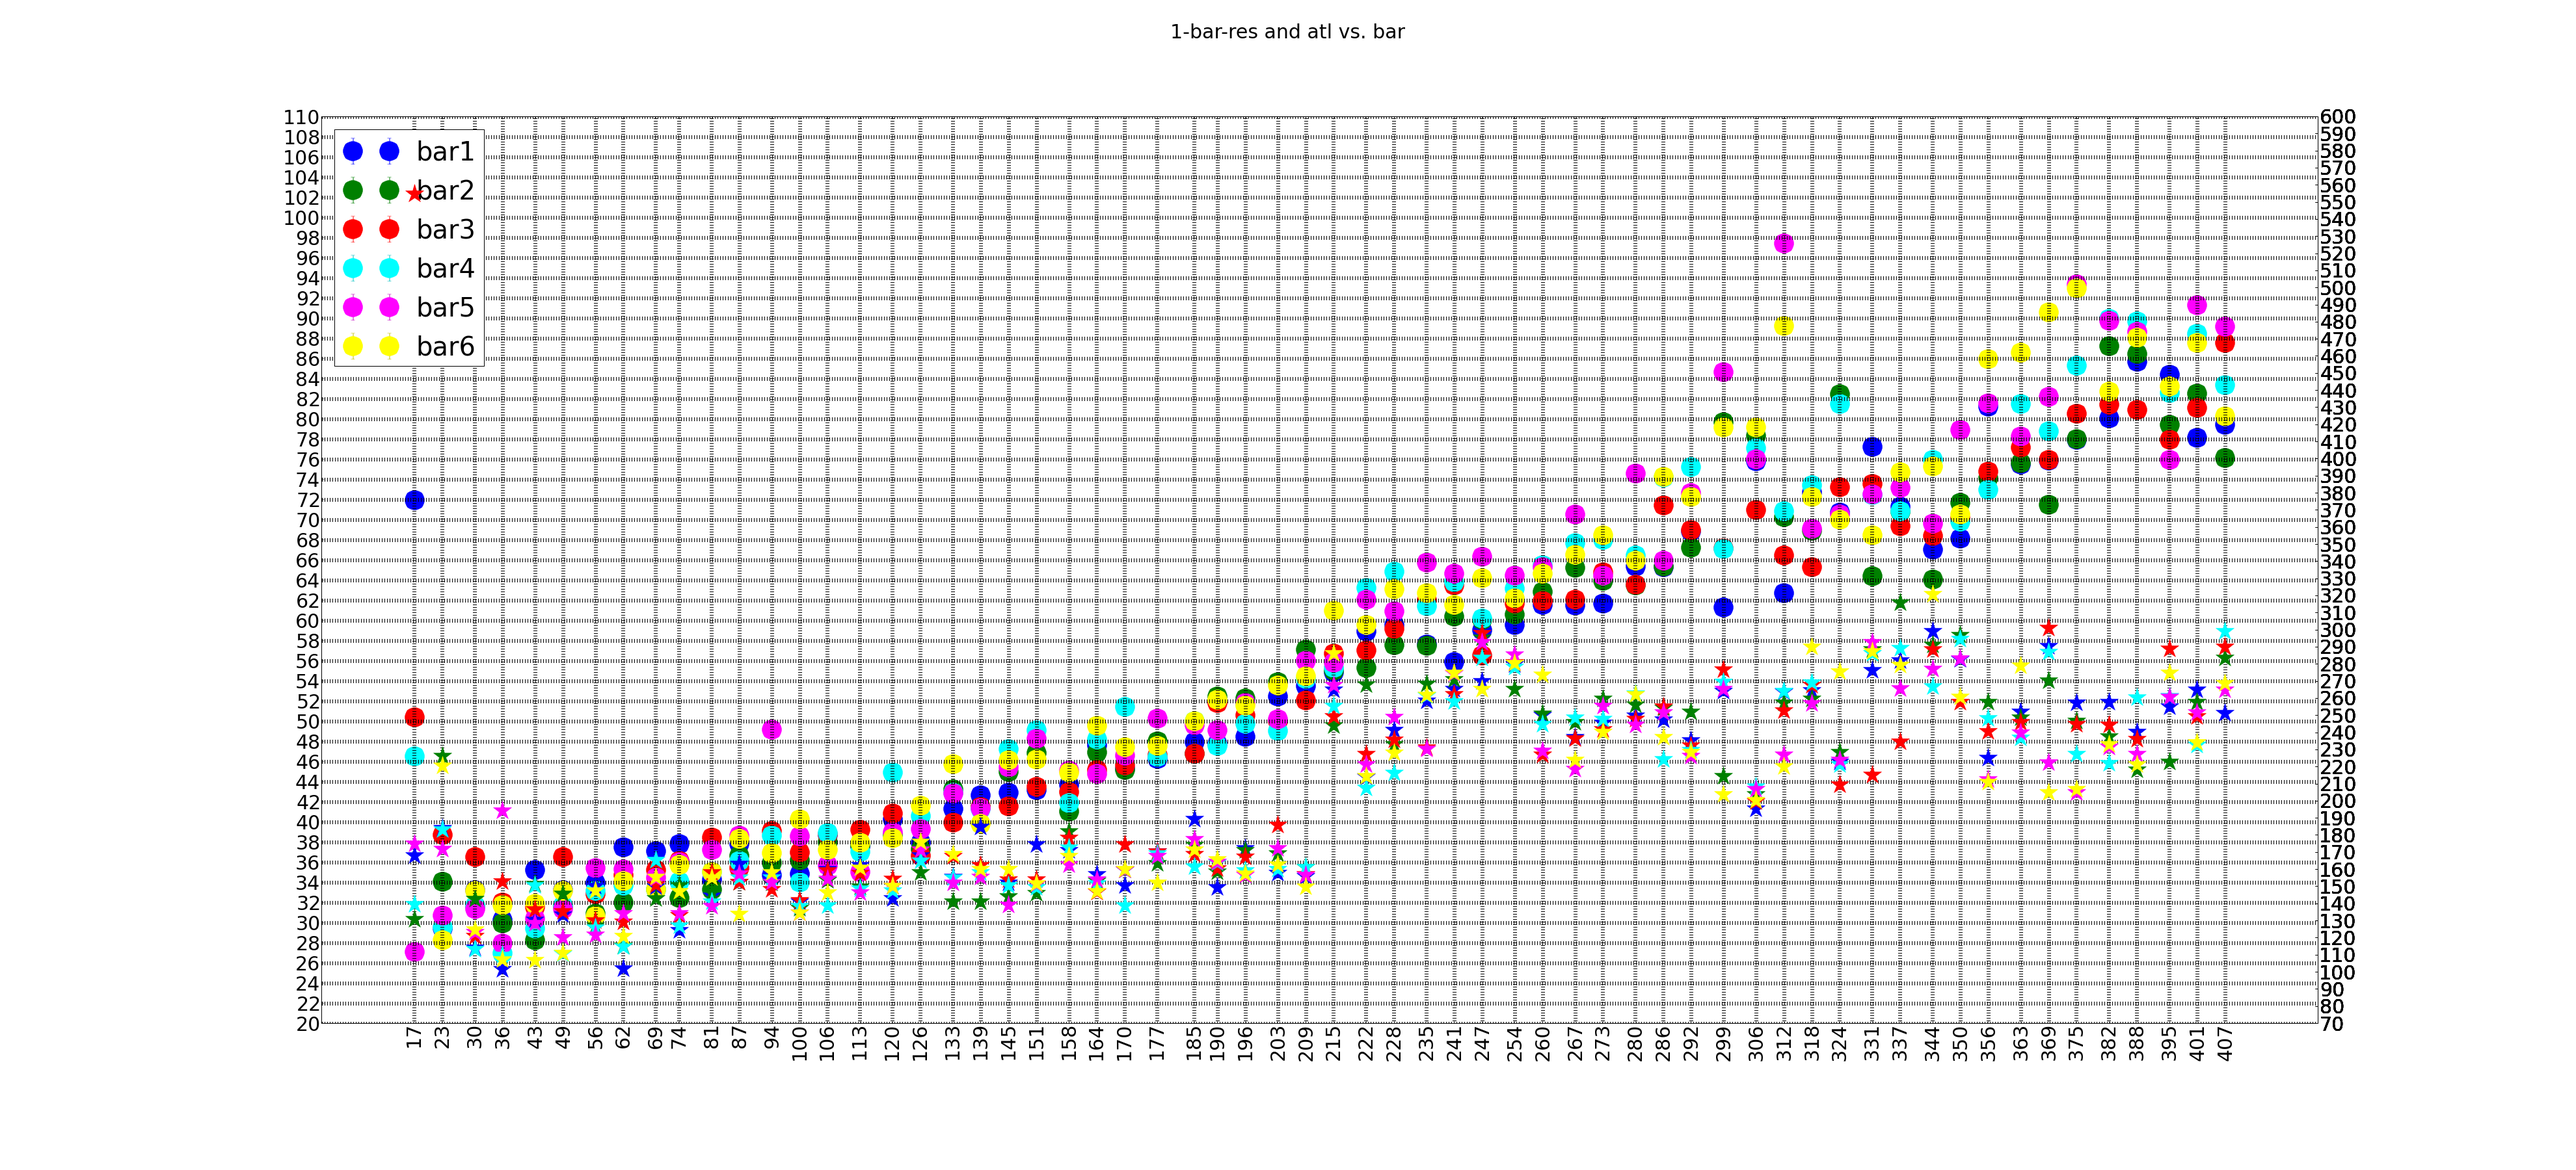
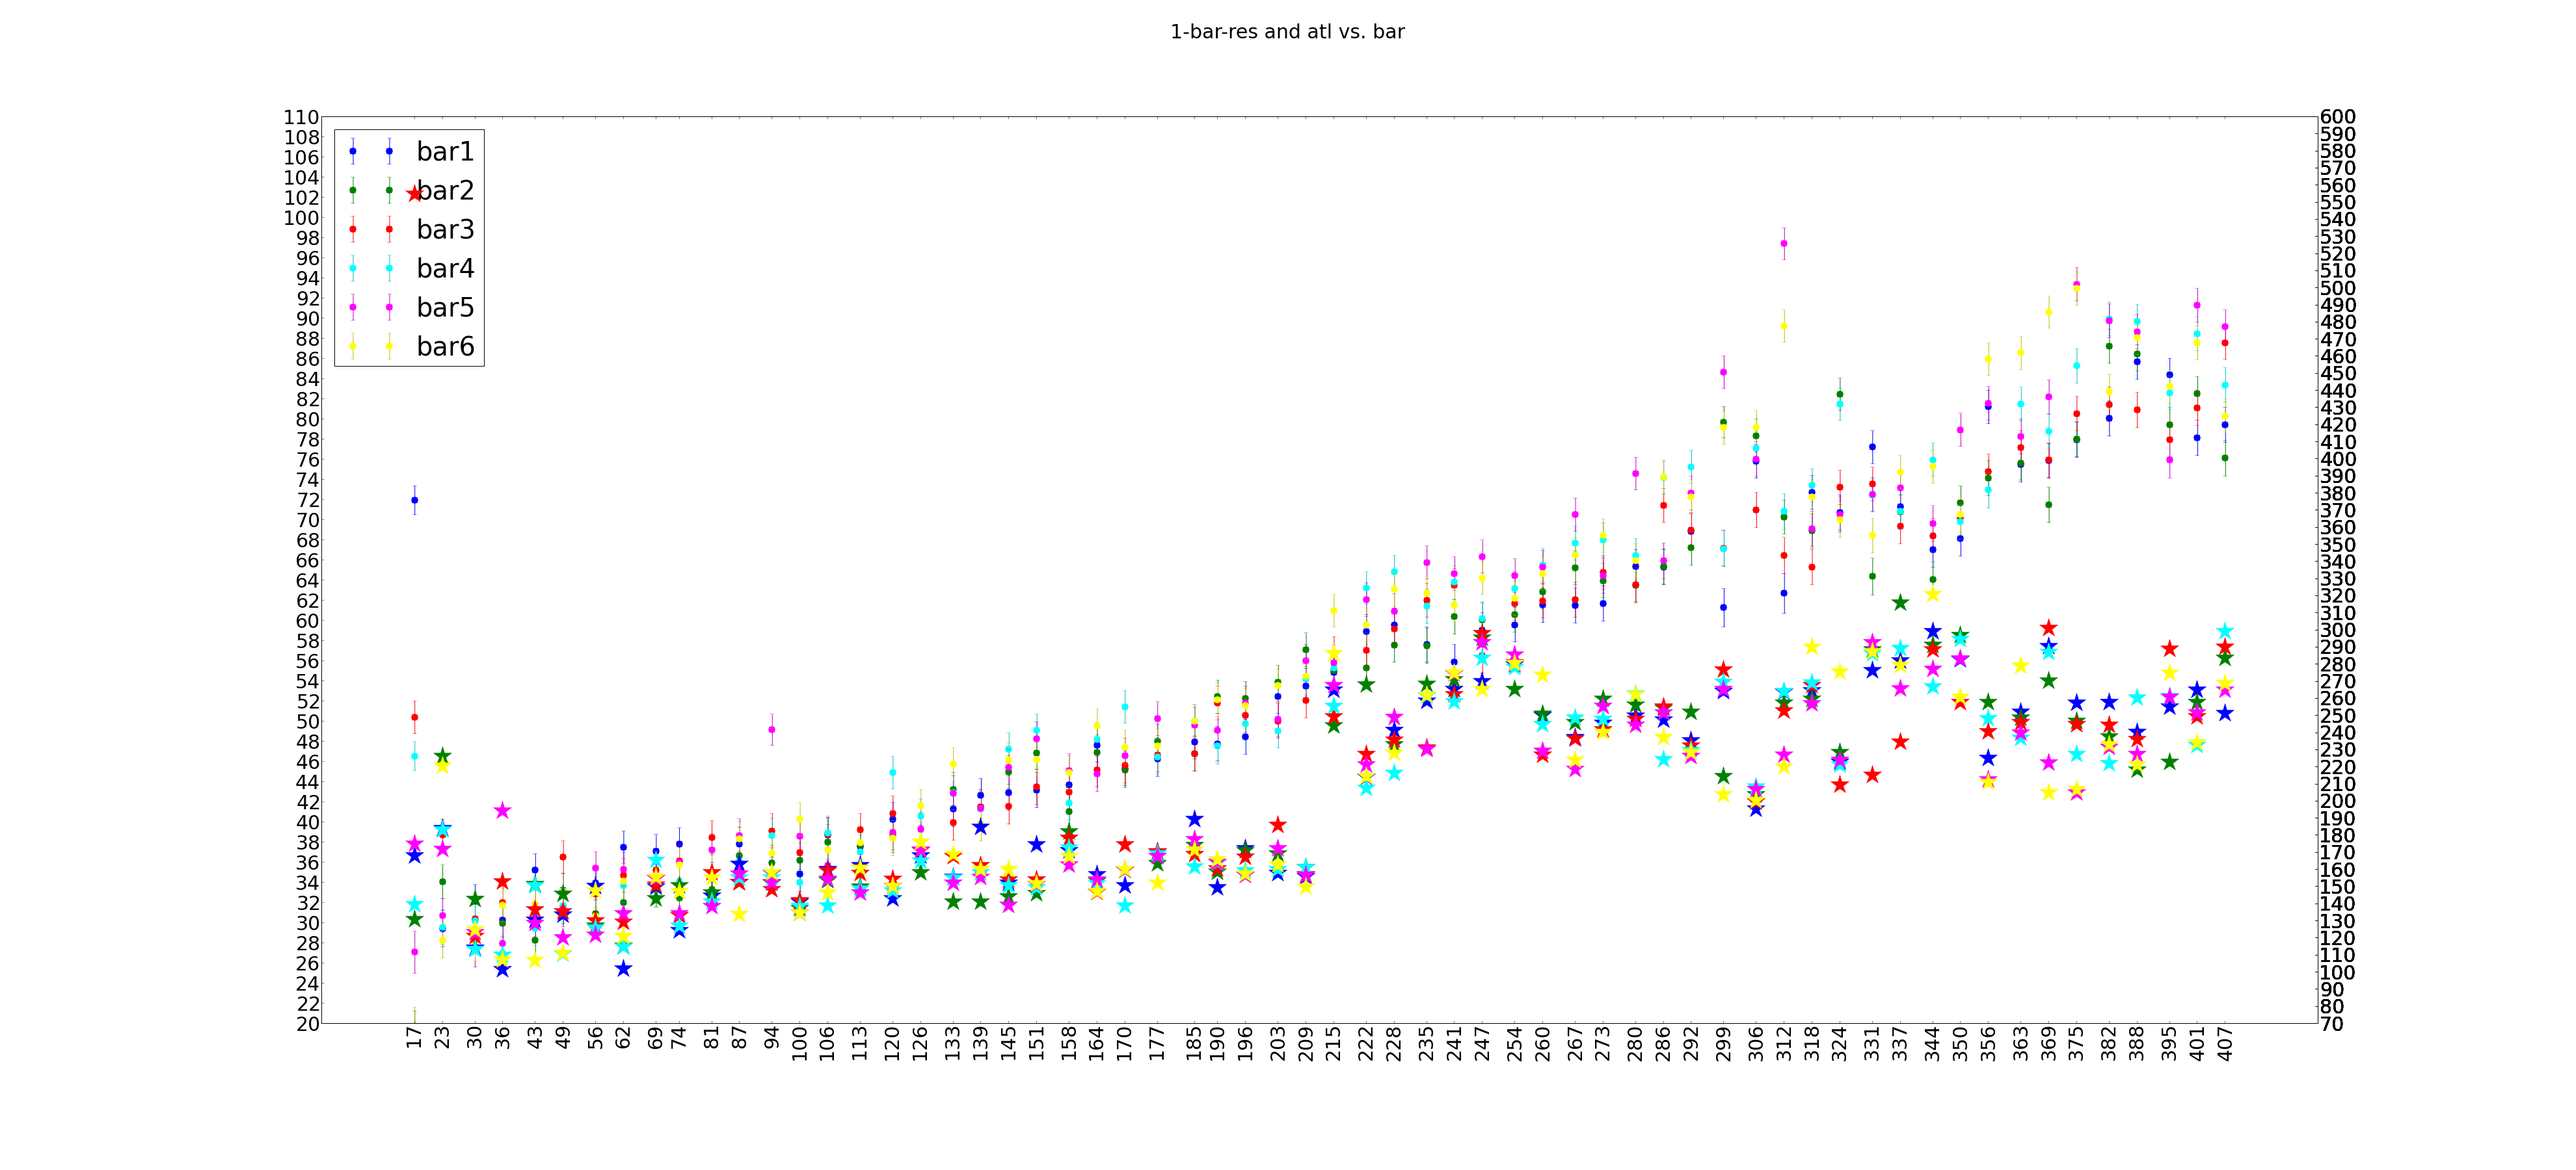
updates

diff --git a/README.md b/README.md
@@ -27,3 +27,4 @@ Branch information
 	+ PMT-tests
 		+ Code and data from when I was testing PMTs
 
+	+ gary-ana-add-errbars [02-16-15]: Made this branch to perform analysis now that Gary implemented error bars for the extraction of time resolution.
